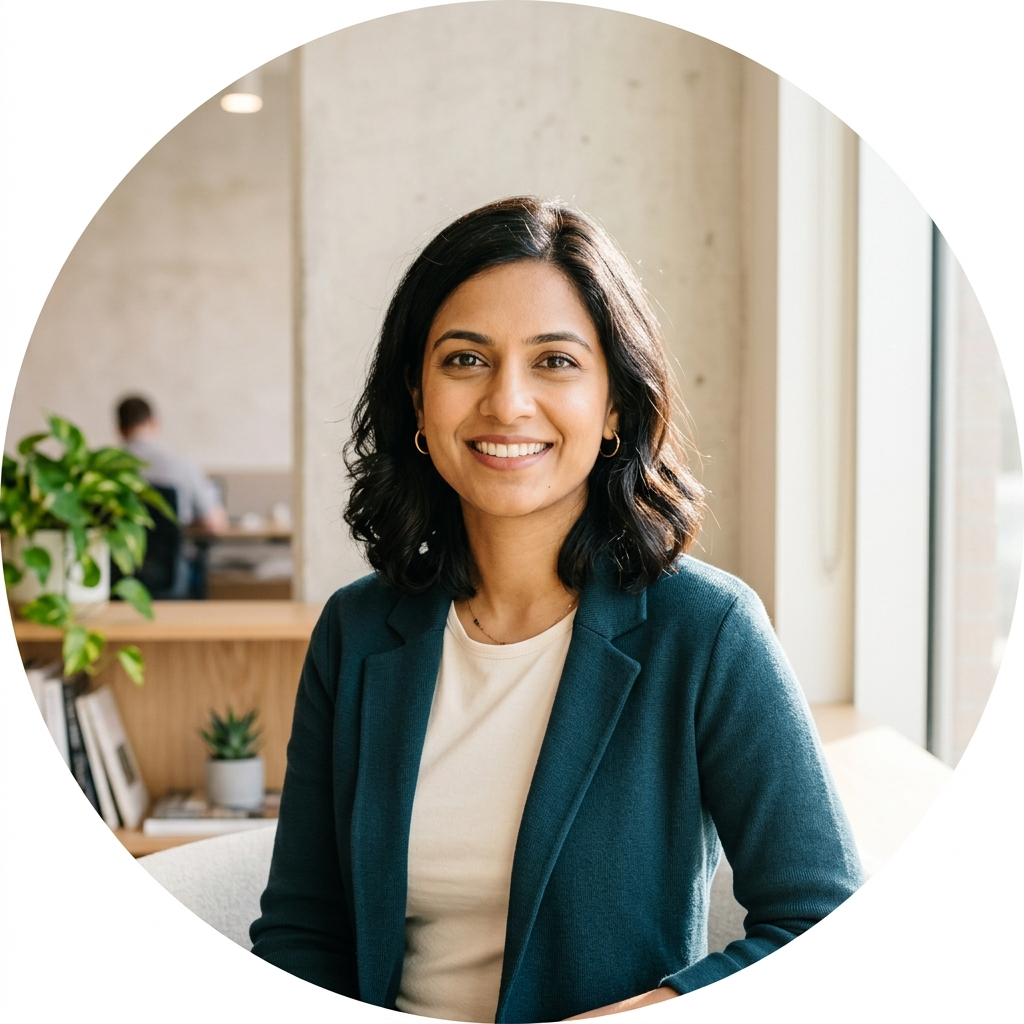
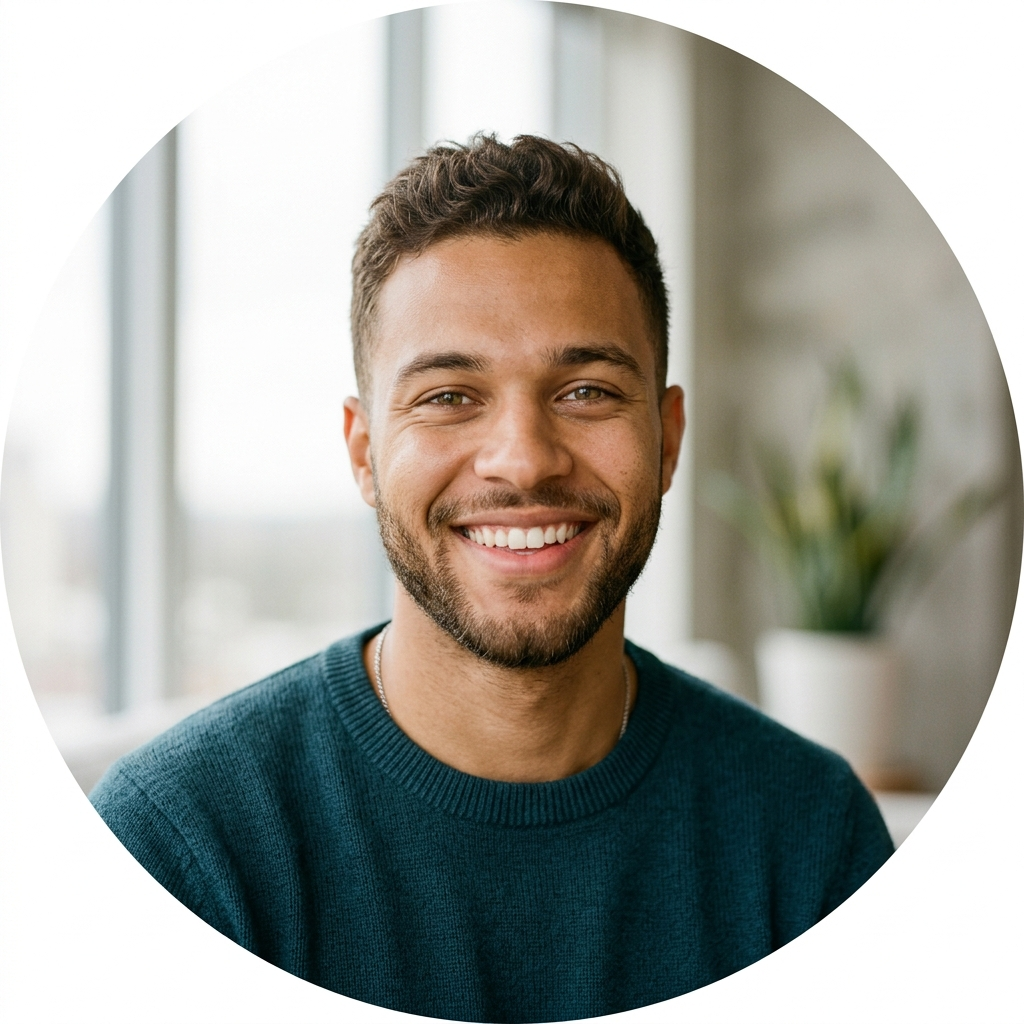
update: change profile to Semih Sener and update bio

diff --git a/src/app/page.tsx b/src/app/page.tsx
@@ -196,7 +196,7 @@ export default function Home() {
                 <div className="relative h-28 w-28 rounded-full overflow-hidden border-2 border-zinc-100 dark:border-zinc-800 shadow-inner bg-zinc-50">
                   <Image
                     src="/profile.png"
-                    alt="Derin Aksu"
+                    alt="Semih Şener"
                     fill
                     sizes="(max-width: 112px) 100vw, 112px"
                     priority
@@ -205,14 +205,14 @@ export default function Home() {
                 </div>
                 <div className="space-y-1">
                   <h1 className="text-lg font-bold text-zinc-900 dark:text-zinc-50">
-                    Derin Aksu
+                    Semih Şener
                   </h1>
                   <p className="text-xs font-semibold text-zinc-500 dark:text-zinc-400">
-                    Yazılım Geliştirici & Ürün Danışmanı
+                    Kişisel Randevu & Takvim
                   </p>
                 </div>
                 <p className="text-xs text-zinc-650 dark:text-zinc-350 leading-relaxed max-w-sm md:max-w-none">
-                  Merhaba! Teknolojik ürün tasarımı, modern yazılım mimarileri, Next.js ve yapay zeka entegrasyonları konularında danışmanlık yapıyorum. Benimle görüşmek için takvimden uygun saati seçebilirsiniz.
+                  Merhaba! Benimle görüşmek, kahve içmek veya herhangi bir konuyu konuşmak için aşağıdaki takvim üzerinden uygun bir gün ve saat seçerek randevu oluşturabilirsiniz.
                 </p>
               </div>
 
